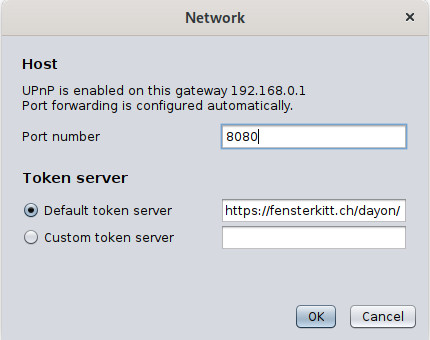
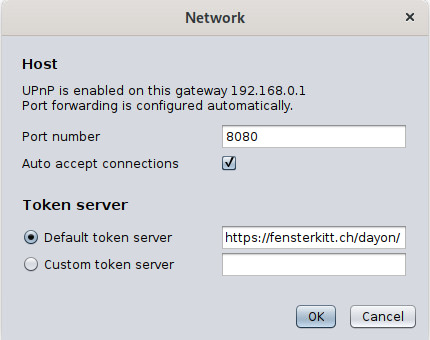
Update docu

diff --git a/docs/fr_download.html b/docs/fr_download.html
@@ -137,6 +137,17 @@
 
       <h2 id="change-log">Journal des modifications</h2>
       <h3>
+        Dayon! v17 Furry Flamingo (23 mai 2025)
+      </h3>
+      <ul>
+        <li>Interface de réseau sélectionnable pour le code d'accès</li>
+        <li>Option d'acceptation automatique des connexions entrantes</li>
+        <li>Masquage automatique du curseur de l'assistant</li>
+        <li>Disponible comme AppImagee</li>
+        <li>Updated JRE</li>
+      </ul>
+
+      <h3>
         Dayon! v16 Eager Eagle (11 février 2025)
       </h3>
       <ul>

diff --git a/docs/de_download.html b/docs/de_download.html
@@ -140,6 +140,17 @@
 
       <h2 id="change-log">Changelog</h2>
       <h3>
+        Dayon! v17 Furry Flamingo (23. Mai 2025)
+      </h3>
+      <ul>
+        <li>Auswählbare Schnittstelle für das Verbindungstoken</li>
+        <li>Optionale automatische Annahme eingehender Verbindungen</li>
+        <li>Automatisches Ausblenden des Cursor des Assistenten</li>
+        <li>Verfügbar als AppImage</li>
+        <li>Aktualisierte JRE</li>
+      </ul>
+
+      <h3>
         Dayon! v16 Eager Eagle (11. Februar 2025)
       </h3>
       <ul>

diff --git a/docs/sv_download.html b/docs/sv_download.html
@@ -127,6 +127,15 @@
       </p>
 
       <h2 id="change-log">Ändringslogg</h2>
+      <h3> Dayon! v17 Furry Flamingo (23 maj 2025)</h3>
+      <ul>
+        <li>Användarvalbart nätverksgränssnitt som ska inkluderas i token</li>
+        <li>Alternativ för att automatiskt acceptera inkommande anslutningar</li>
+        <li>Dölj assistentmarkören automatiskt</li>
+        <li>Tillgänglig som AppImagee</li>
+        <li>Updaterad JRE</li>
+      </ul>
+
       <h3>
         Dayon! v16 Eager Eagle (11 februari 2025)
       </h3>

diff --git a/docs/download.html b/docs/download.html
@@ -138,6 +138,17 @@
 
         <h2 id="change-log">Change log</h2>
         <h3>
+          Dayon! v17 Furry Flamingo (May 23th, 2025)
+        </h3>
+        <ul>
+          <li>User selectable interface to be included in token</li>
+          <li>Auto accept incoming connections option</li>
+          <li>Auto hide the assistants cursor</li>
+          <li>Available as AppImagee</li>
+          <li>Updated JRE</li>
+        </ul>
+
+        <h3>
           Dayon! v16 Eager Eagle (February 11th, 2025)
         </h3>
         <ul>

diff --git a/docs/zh_quickstart.html b/docs/zh_quickstart.html
@@ -137,6 +137,10 @@
         </p>
 
         <p>
+            &nbsp; &nbsp; <strong>注意</strong>： 如果您正在使用某种 VPN 服务（如 ZeroTier 或类似服务），您可能需要在生成令牌前选择一个要包含在令牌中的特定网络接口。
+        </p>
+
+        <p>
             &nbsp; &nbsp; 就酱紫 - 通过邮件、IM 或电话将此 <strong>访问令牌</strong> 发送给 <em>被帮助者（使用‘Assisted - 用户端’的用户）</em> 。
         </p>
 

diff --git a/docs/zh_download.html b/docs/zh_download.html
@@ -144,6 +144,17 @@
 
       <h2 id="change-log">更新日志</h2>
       <h3>
+        Dayon! v17 Furry Flamingo（2025年5月23日）
+      </h3>
+      <ul>
+        <li>用户可选择的网络接口包含在令牌中</li>
+        <li>自动接受传入连接选项</li>
+        <li>自动隐藏助手光标</li>
+        <li>以 AppImagee 形式提供</li>
+        <li>新的 JRE</li>
+      </ul>
+
+      <h3>
         Dayon! v16 Eager Eagle (2025年2月11日)
       </h3>
       <ul>

diff --git a/docs/zh_index.html b/docs/zh_index.html
@@ -76,7 +76,7 @@
             Dayon! 所提供的黑白屏幕影像质量足以清除分辨菜单、图标和查看计算机设置等...
         </p>
       </div>
-      <h2>状态 (15)</h2>
+      <h2>状态 (17)</h2>
       <p>
         &nbsp; &nbsp; 从第 16 版（Eager Eagle）开始，如果助手无法连接到端口，连接会自动反转。
         从第 15 版（Dolly Double）开始，远程桌面还可以彩色传输。

diff --git a/docs/sv_index.html b/docs/sv_index.html
@@ -80,7 +80,7 @@
           arbeta med de olika menyerna och ikonerna liksom att hantera hjälptagarens datorinställningar, osv...</p>
       </div>
 
-      <h2>Status (16)</h2>
+      <h2>Status (17)</h2>
       <p>
         Sedan version 16 (Eager Eagle) inverteras anslutningen automatiskt om porten inte kan nås av hjälpmottagaren.
         Från och med version 15 (Dolly Double) kan fjärrskrivbordet även sändas i färg.

diff --git a/docs/fr_quickstart.html b/docs/fr_quickstart.html
@@ -104,6 +104,10 @@
       </p>
 
       <p>
+        <strong>Remarque :</strong> si vous utilisez un service VPN tel que ZeroTier ou autre, vous pouvez sélectionner une interface réseau spécifique à inclure dans le jeton avant de le générer.
+      </p>
+
+      <p>
         C'est tout - communiquez ce <strong>code d'accès</strong> à l'<em>assisté</em> par courrier, messagerie instantanée ou téléphone.
       </p>
 

diff --git a/docs/de_quickstart.html b/docs/de_quickstart.html
@@ -110,6 +110,10 @@
       </p>
 
       <p>
+        <strong>Hinweis:</strong> Wenn Sie einen VPN-Dienst wie ZeroTier o. ä. verwenden, sollten Sie vor der Generierung eine bestimmte Netzwerkschnittstelle auswählen, die in das Token aufgenommen werden soll.
+      </p>
+
+      <p>
         Das wär's bereits - teilen Sie dieses <strong>Token</strong> dem <em>Assistierten</em> via Mail, IM oder Telefon mit.
       </p>
 

diff --git a/docs/sv_quickstart.html b/docs/sv_quickstart.html
@@ -100,6 +100,10 @@
       </p>
 
       <p>
+        <strong>Obs:</strong> Om du använder någon form av VPN-tjänst som ZeroTier eller liknande kanske du vill välja ett specifikt nätverksgränssnitt som ska ingå i token innan du genererar den.
+      </p>
+
+      <p>
         Det var allt - meddela <strong>anslutningsnyckeln</strong> till <em>hjälptagaren</em> via epost, chat eller telefon.
       </p>
 

diff --git a/docs/quickstart.html b/docs/quickstart.html
@@ -110,6 +110,10 @@
       </p>
 
       <p>
+        <strong>Note:</strong> If you are using some kind of VPN service like ZeroTier or such, you might want to select a specific network interface to be included in the token before generating.
+      </p>
+
+      <p>
         That's it - communicate this <strong>Token</strong> to the <em>assisted</em> via mail, IM or phone.
       </p>
 
